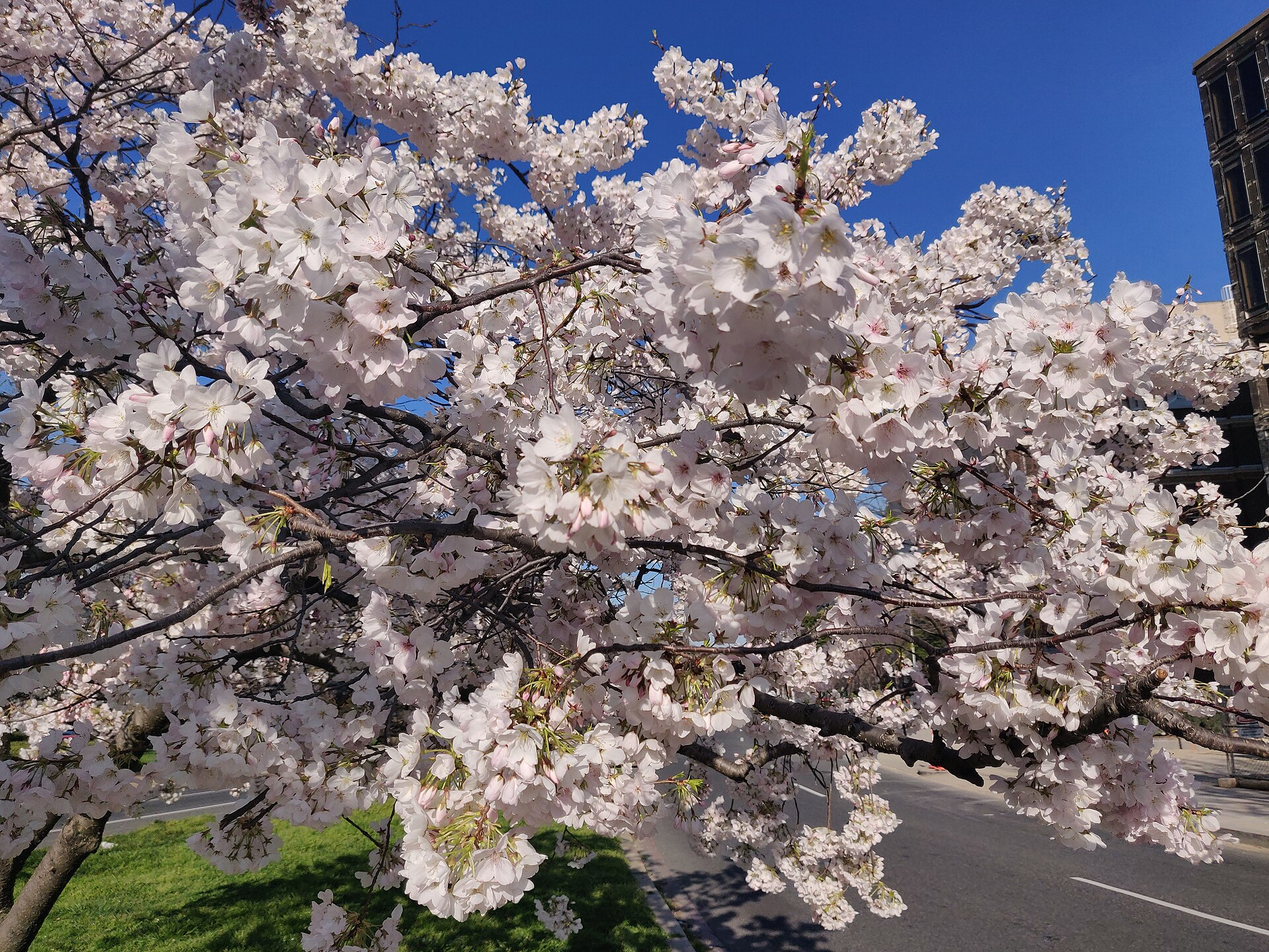
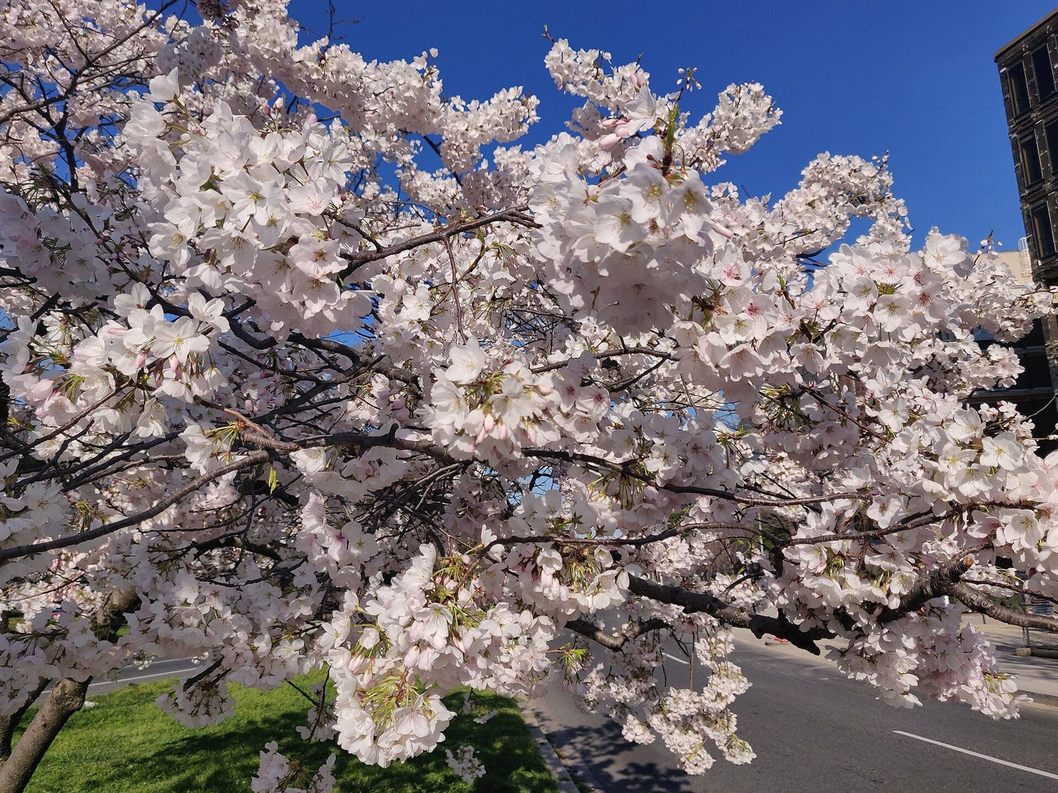
perf: sakura a 60 fps sin perder su identidad

diff --git a/src/themes/styles/nuevos-5-temas-pro.css b/src/themes/styles/nuevos-5-temas-pro.css
@@ -127,11 +127,11 @@
     inset 0 1px rgba(255, 255, 255, 0.8);
 }
 .app-shell[data-skin='sakura'] .player-dock {
-  background: rgba(255, 255, 255, 0.82) !important;
+  background: rgba(255, 255, 255, 0.94) !important;
   border: 1px solid rgba(229, 77, 134, 0.3) !important;
   border-radius: 999px !important;
   box-shadow: 0 18px 44px rgba(130, 40, 78, 0.2) !important;
-  backdrop-filter: blur(16px);
+  /* Sin backdrop-filter: difumina un fondo animado en cada frame. */
   color: #3d1626 !important;
 }
 .app-shell[data-skin='sakura'] .theme-modal,
@@ -651,18 +651,13 @@
     transform: translateY(-10px) scale(1.02);
   }
 }
+/* Transform, no background-position: el compositor la mueve sin repintar. */
 @keyframes sakura-petalos {
-  0% {
-    background-position:
-      0 0,
-      0 0,
-      0 0;
+  from {
+    transform: translate3d(0, 0, 0);
   }
-  100% {
-    background-position:
-      60px 420px,
-      -45px 520px,
-      30px 600px;
+  to {
+    transform: translate3d(24px, 420px, 0);
   }
 }
 
@@ -685,6 +680,7 @@
   object-position: left bottom;
   filter: saturate(1.05) contrast(1.05);
   animation: sakura-flotar 12s ease-in-out infinite;
+  will-change: transform;
 }
 .app-shell[data-skin='sakura'] .sakura-taiju-foto::after {
   content: '';
@@ -696,7 +692,11 @@
 }
 .app-shell[data-skin='sakura'] .sakura-taiju-petalos {
   position: absolute;
-  inset: 0;
+  top: -420px;
+  left: 0;
+  width: 100%;
+  height: calc(100% + 840px);
+  will-change: transform;
   opacity: 0.85;
   background-image:
     radial-gradient(ellipse 7px 11px at 12% 8%, #ff8fb8 60%, transparent 62%),
@@ -709,8 +709,8 @@
   animation: sakura-petalos 14s linear infinite;
 }
 .app-shell[data-skin='sakura'] .sakura-taiju-copy {
-  background: rgba(255, 255, 255, 0.6);
-  backdrop-filter: blur(12px);
+  background: rgba(255, 255, 255, 0.92);
+  /* Sin backdrop-filter por el mismo motivo que el player. */
   border: 1px solid rgba(229, 77, 134, 0.25);
   border-radius: 28px 10px 28px 10px;
   padding: 30px 34px;
@@ -1123,7 +1123,6 @@
   inset: 0;
   z-index: -1;
   background: url('/images/sakura-tree.jpg') center 42% / cover no-repeat;
-  filter: saturate(1.1) contrast(1.04);
 }
 .app-shell[data-skin='sakura'] .sakura-hero-foto::after {
   content: '';
@@ -1290,8 +1289,9 @@
   flex-direction: column;
   gap: 10px;
   padding: 16px;
-  background: rgba(255, 255, 255, 0.66);
-  backdrop-filter: blur(10px);
+  background: rgba(255, 255, 255, 0.88);
+  content-visibility: auto;
+  contain-intrinsic-size: 240px;
   border: 1px solid rgba(229, 77, 134, 0.26);
   border-radius: 26px 10px 26px 10px;
   box-shadow: 0 14px 32px rgba(150, 50, 90, 0.12);
@@ -1299,7 +1299,7 @@
     transform 0.25s,
     box-shadow 0.25s;
   animation: realce-entrar 420ms ease both;
-  animation-delay: calc(var(--flor) * 45ms);
+  animation-delay: min(calc(var(--flor) * 45ms), 540ms);
 }
 .app-shell[data-skin='sakura'] .sakura-flor:nth-child(even) {
   transform: translateY(18px);
@@ -1389,6 +1389,12 @@
 .app-shell[data-skin='sakura'] .sakura-flor-acc button:hover {
   background: #e54d86;
   color: #fff;
+}
+
+/* Con bibliotecas grandes, animar cinco pétalos por tarjeta satura el
+   compositor. Sólo la primera fila se anima; el resto queda estático. */
+.app-shell[data-skin='sakura'] .sakura-flor:nth-child(n + 13) .sakura-petalos i {
+  animation: none !important;
 }
 
 @media (prefers-reduced-motion: reduce) {

diff --git a/src/styles/sakura-rendimiento.css b/src/styles/sakura-rendimiento.css
@@ -1,0 +1,25 @@
+/* ==========================================================================
+   SAKURA · ajuste de rendimiento
+   Las animaciones infinitas sobre fotos grandes y gradientes obligaban al
+   compositor a repintar cada frame. Medido en dev con 1000 pistas: Sakura iba
+   a ~7 FPS y Estudio a ~58 FPS. Se conservan las animaciones de entrada
+   (`realce-entrar`) y el respirar de las cinco pétalos del medallón del hero.
+   ========================================================================== */
+
+.app-shell[data-skin='sakura'] .app-rail-row::after,
+.app-shell[data-skin='sakura'] .sakura-taiju-home::after,
+.app-shell[data-skin='sakura'] .sakura-taiju-foto img,
+.app-shell[data-skin='sakura'] .sakura-taiju-petalos,
+.app-shell[data-skin='sakura'] .sakura-flor .sakura-petalos i {
+  animation: none !important;
+  will-change: auto;
+}
+
+/* La máscara sobre una imagen animada exigía un buffer extra por frame. */
+.app-shell[data-skin='sakura'] .sakura-taiju-foto {
+  mask-image: none;
+  -webkit-mask-image: none;
+}
+.app-shell[data-skin='sakura'] .sakura-taiju-foto img {
+  filter: none;
+}

diff --git a/src/components/ThemeLibrary.tsx b/src/components/ThemeLibrary.tsx
@@ -1085,13 +1085,17 @@ export default function ThemeLibrary({
                   onDoubleClick={() => onPresentTrack?.(track)}
                 >
                   <span className="sakura-flor-cover">
-                    <span className="sakura-petalos" aria-hidden="true">
-                      <i />
-                      <i />
-                      <i />
-                      <i />
-                      <i />
-                    </span>
+                    {/* Los pétalos son decoración: sólo se renderizan en la
+                        primera fila para no crear miles de nodos animados. */}
+                    {i < 12 && (
+                      <span className="sakura-petalos" aria-hidden="true">
+                        <i />
+                        <i />
+                        <i />
+                        <i />
+                        <i />
+                      </span>
+                    )}
                     {track.cover_url ? (
                       <img src={getCoverSrc(track.cover_url)} alt="" />
                     ) : (

diff --git a/src/App.css b/src/App.css
@@ -15,3 +15,4 @@
 @import './themes/styles/bibliotecas-unicas.css';
 @import './themes/styles/tonos-oklch.css';
 @import './styles/fuentes.css';
+@import './styles/sakura-rendimiento.css';

diff --git a/docs/racional-de-decisiones.md b/docs/racional-de-decisiones.md
@@ -68,7 +68,7 @@ flowchart TB
 | Datos y flujos | [§12 herramientas](#s12) · [§13 cola](#s13) · [§14 playlists](#s14) · [§15 papelera](#s15) · [§16 letras](#s16) |
 | Interfaz y control | [§6 remoto](#s6) · [§7 notificaciones](#s7) · [§17 IPC](#s17) · [§18 paleta](#s18) · [§19 presentación](#s19) |
 | Ingeniería | [§9 release](#s9) · [§10 organización](#s10) · [§20 miniaturas](#s20) |
-| Cierre | [§21 decisiones retiradas](#s21) · [§22 principios](#s22) · [Resumen](#resumen) |
+| Cierre | [§21 decisiones retiradas](#s21) · [§22 principios](#s22) · [§23 rendimiento de Sakura](#s23) · [Resumen](#resumen) |
 
 ---
 
@@ -606,6 +606,37 @@ Si hay poco tiempo, estas siete frases resumen casi todas las decisiones:
 
 ---
 
+<a id="s23"></a>
+## 23. Rendimiento de Sakura
+
+**Decisión.** El tema conserva su foto real, sus pétalos y su medallón, pero
+desactiva las animaciones infinitas y el `backdrop-filter` sobre la imagen y los
+gradientes. Las flores usan `content-visibility: auto` y los pétalos sólo se
+renderizan en la primera fila. La foto pasó de 1920×1440 a 1600×1200 (0.56 MB).
+
+**Por qué.** Con 1000 pistas, Sakura corría a ~7 FPS (136 ms/frame) y tardaba
+4301 ms en abrir la biblioteca, contra ~58 FPS y 1230 ms de Estudio. Las
+métricas CDP mostraban casi cero tiempo de script y layout: el costo estaba en
+el compositor. Al desactivar todas las animaciones continuas, Sakura bajó a
+17 ms/frame, igual que Estudio. El culpable principal era `background-position`
+sobre un área de 760×663 px, que fuerza repintar cada frame, y el
+`backdrop-filter` aplicado sobre fondos animados.
+
+**Alternativas descartadas.** Quitar la foto (destruye la identidad del tema),
+virtualizar `ThemeLibrary` completo para los 19 temas (cambio mucho más grande)
+y mantener las animaciones tal cual (inaceptable con bibliotecas grandes).
+
+**Consecuencia.** Medido de nuevo: 16.4 ms/frame en Home y 16.6 en biblioteca,
+con 1000 pistas 17.9 ms/frame y 1292 ms para abrir la vista. Siguen vivas las
+animaciones de entrada (`realce-entrar`) y los cinco pétalos del medallón del
+hero. Las capturas antes/después confirmaron que el tema se reconoce igual.
+
+**Reflejo en el código.** `src/styles/sakura-rendimiento.css` (importado al final
+de `App.css`), `src/themes/styles/nuevos-5-temas-pro.css`,
+`src/components/ThemeLibrary.tsx` y `public/images/sakura-tree.jpg`.
+
+---
+
 <a id="resumen"></a>
 ## Resumen
 
@@ -633,3 +664,4 @@ Si hay poco tiempo, estas siete frases resumen casi todas las decisiones:
 | 20 | Miniaturas `covers/thumbs/` | Redimensionar por render, usar originales | § 20 |
 | 21 | Decisiones retiradas | — | § 21 |
 | 22 | Principios rectores | — | § 22 |
+| 23 | Animaciones continuas limitadas en Sakura | Quitar la foto, virtualizar los 19 temas | § 23 |

diff --git a/CHANGELOG.md b/CHANGELOG.md
@@ -5,6 +5,7 @@ Todos los cambios destacables de este proyecto se registran aquí. El formato si
 ## [2.0.0] - 2026-11-25
 
 ### Cambiado
+- **Rendimiento de Sakura**: se desactivaron las animaciones infinitas y el `backdrop-filter` sobre la foto y los gradientes, se limitaron los pétalos renderizados a la primera fila, se aplicó `content-visibility` a las flores y se redujo la foto a 1600×1200 (0.56 MB). Medido con 1000 pistas: de ~7 FPS y 4300 ms para abrir la biblioteca a ~60 FPS y 1290 ms; Home pasó de 54 ms/frame a 16 ms, igual que Estudio. Se conservan la foto, el medallón animado y las animaciones de entrada. Ver [racional-de-decisiones.md](docs/racional-de-decisiones.md#23-rendimiento-de-sakura).
 - **Fraunces y tonos OKLCH extendidos a las tarjetas**: los títulos dentro de las tarjetas de los cinco temas usan Fraunces con óptica menor, y los botones de acción toman `--*-hover`, `--*-activo` y `--*-suave` en lugar de colores fijos por tema. Verificado con capturas antes/después y leyendo los estilos computados en hover de los cinco temas.
 - **CI sin compilación incremental**: `.github/workflows/ci.yml` fija `CARGO_INCREMENTAL: '0'` a nivel de `env`. En las runners descartables el incremental apenas acelera el build (el código cambia en cada push) y acumula sesiones que inflan el caché de `Swatinem/rust-cache@v2`. El desarrollo local no se toca: `npm run tauri dev` sigue con incremental activo. La razón quedó documentada en `docs/pipeline.md`.
 
